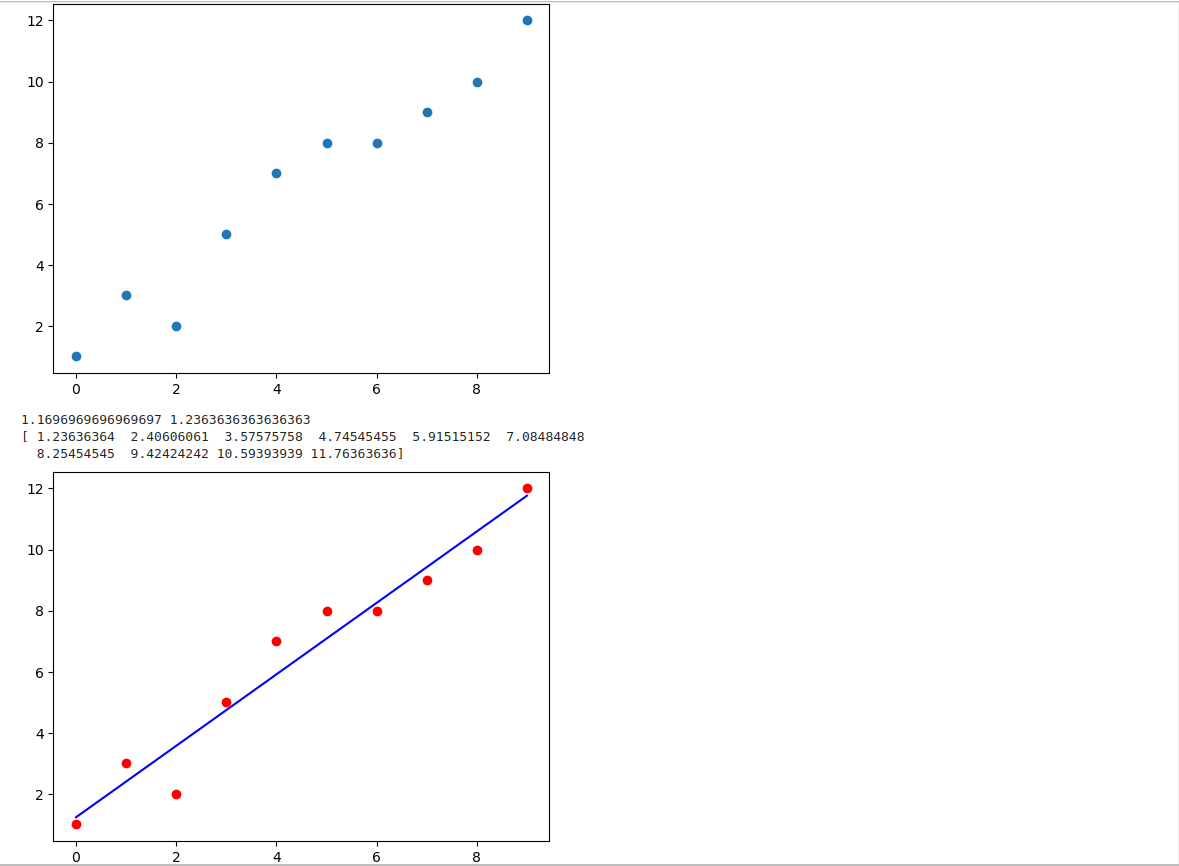
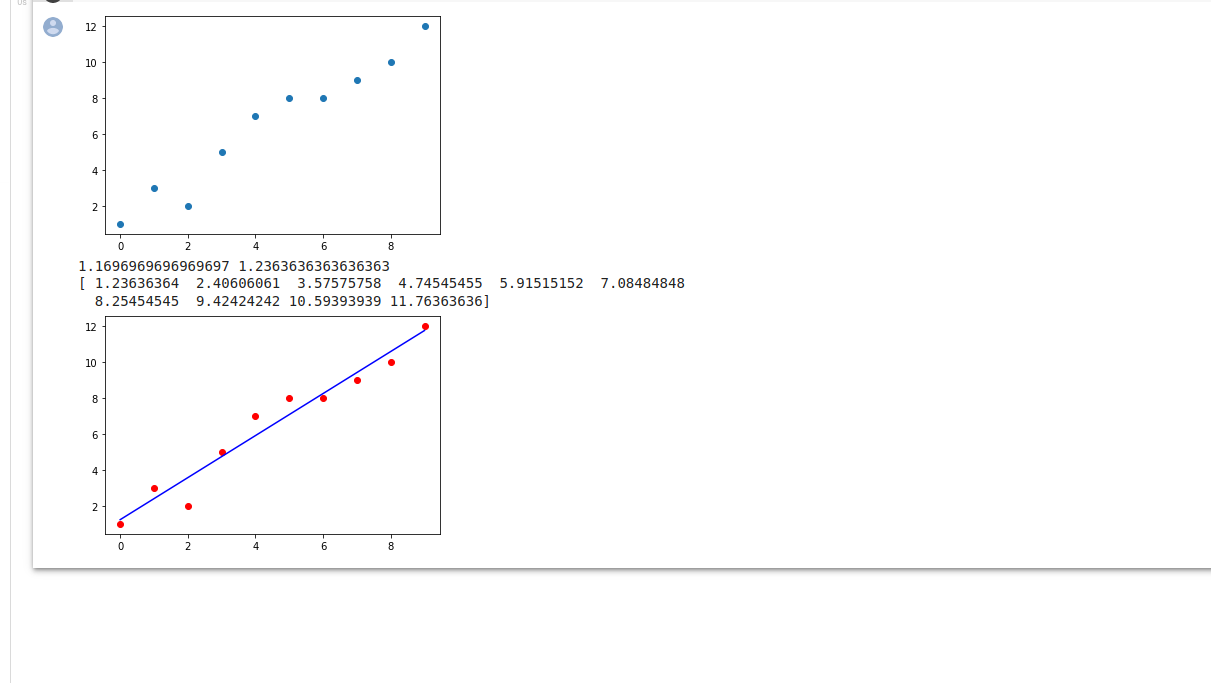
added2

diff --git a/README.md b/README.md
@@ -55,7 +55,8 @@ plt.show()
 ```
 ## Output
 
-
+![](/uni1.png)
+![](/uni2.png)
 
 ## Result
 
